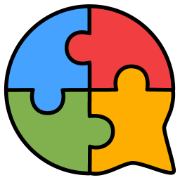
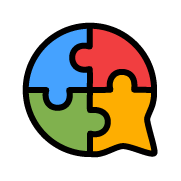
feat: improve PWA and UI layout
- Change theme color to gray for standard Mac title bar
- Add logo to header next to app name
- Move "Add project" button below filter bar (visible only in edit mode)
- Balance spacing around the add project button
- Update apple-touch-icon with user's custom icon

🤖 Generated with [Claude Code](https://claude.com/claude-code)

diff --git a/client/src/components/kanban/FilterBar.tsx b/client/src/components/kanban/FilterBar.tsx
@@ -16,8 +16,8 @@ interface FilterBarProps {
 
 export function FilterBar({ filter, onFilterChange, onAddProject, editMode, onEditModeChange, isDarkMode, onDarkModeToggle }: FilterBarProps) {
   return (
-    <div className="mb-4">
-      <div className="flex items-center justify-between pb-4 border-b border-border">
+    <div className={editMode ? '' : 'mb-4'}>
+      <div className="flex items-center justify-between pb-3 border-b border-border">
       <div className="flex items-center gap-2">
         <ToggleGroup
           type="single"
@@ -69,12 +69,17 @@ export function FilterBar({ filter, onFilterChange, onAddProject, editMode, onEd
             aria-label="Toggle edit mode"
           />
         </div>
-        <Button onClick={onAddProject} size="sm">
-          <Plus className="h-4 w-4 mr-1" />
-          Aggiungi progetto
-        </Button>
       </div>
       </div>
+
+      {editMode && (
+        <div className="flex justify-center pt-6">
+          <Button onClick={onAddProject} size="sm">
+            <Plus className="h-4 w-4 mr-1" />
+            Aggiungi progetto
+          </Button>
+        </div>
+      )}
     </div>
   );
 }

diff --git a/client/src/components/kanban/KanbanBoard.tsx b/client/src/components/kanban/KanbanBoard.tsx
@@ -236,7 +236,10 @@ export function KanbanBoard() {
     <div className="h-screen flex flex-col p-6 bg-background">
       {/* Header with title */}
       <div className="flex items-center justify-between mb-4">
-        <h1 className="text-2xl font-bold text-foreground">Prompto</h1>
+        <div className="flex items-center gap-3">
+          <img src="/favicon.ico" alt="Prompto" className="w-8 h-8" />
+          <h1 className="text-2xl font-bold text-foreground">Prompto</h1>
+        </div>
       </div>
 
       {/* Filters */}

diff --git a/client/index.html b/client/index.html
@@ -7,10 +7,10 @@
 
     <!-- PWA -->
     <link rel="manifest" href="/manifest.json" />
-    <meta name="theme-color" content="#3b82f6" />
+    <meta name="theme-color" content="#f5f5f5" />
 
     <!-- Icons -->
-    <link rel="icon" type="image/svg+xml" href="/favicon.svg" />
+    <link rel="icon" type="image/x-icon" href="/favicon.ico" />
     <link rel="apple-touch-icon" href="/apple-touch-icon.png" />
 
     <!-- Apple PWA -->
